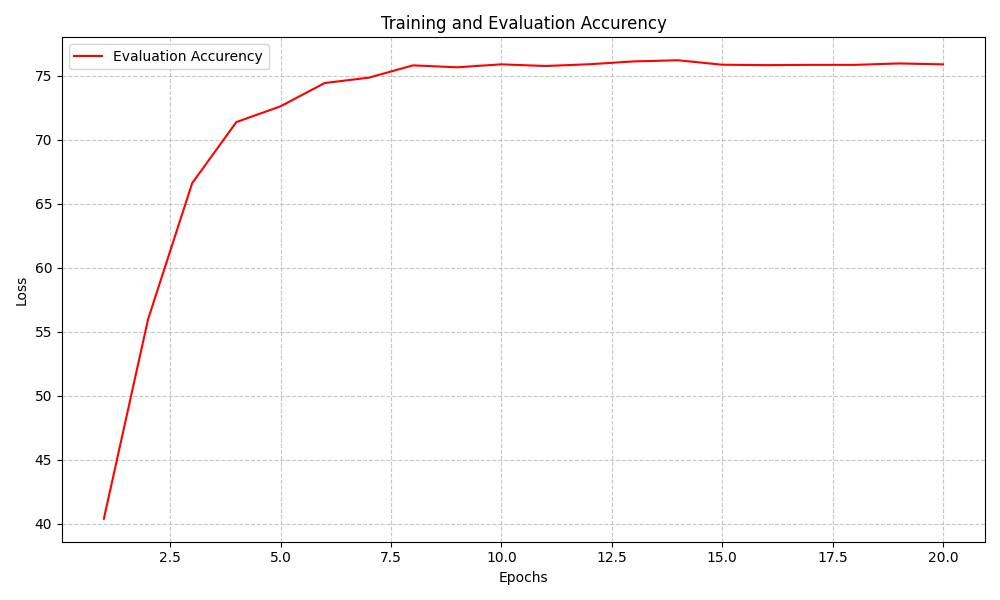
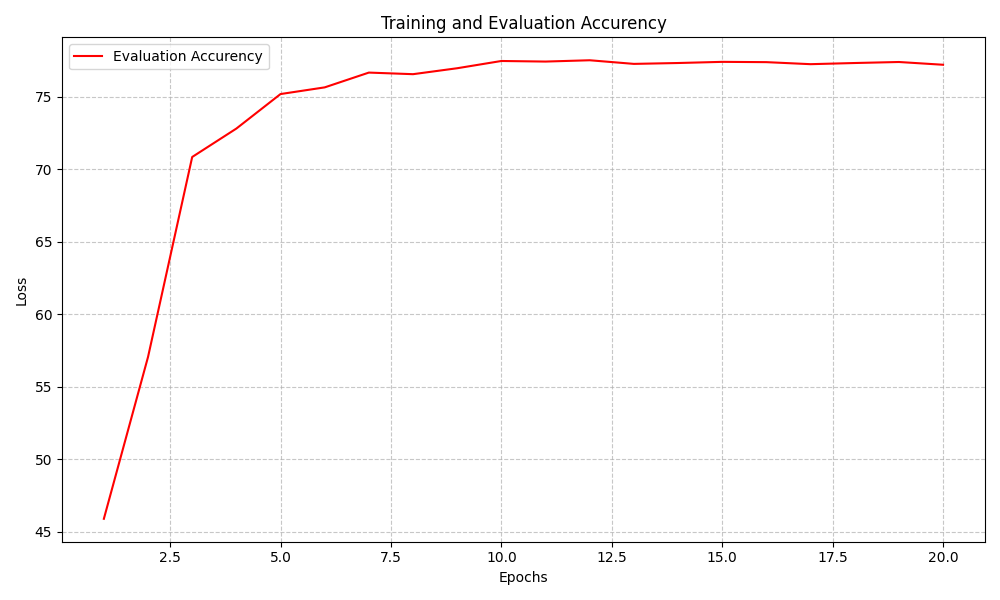
ResNet18

diff --git a/main.py b/main.py
@@ -67,7 +67,7 @@ def main() -> None:
     )
 
     # Create model
-    model = torchvision.models.resnet34()
+    model = torchvision.models.resnet18()
     model.fc = torch.nn.Sequential(
         torch.nn.Linear(model.fc.in_features, 10),
         torch.nn.LogSoftmax(dim=1)
